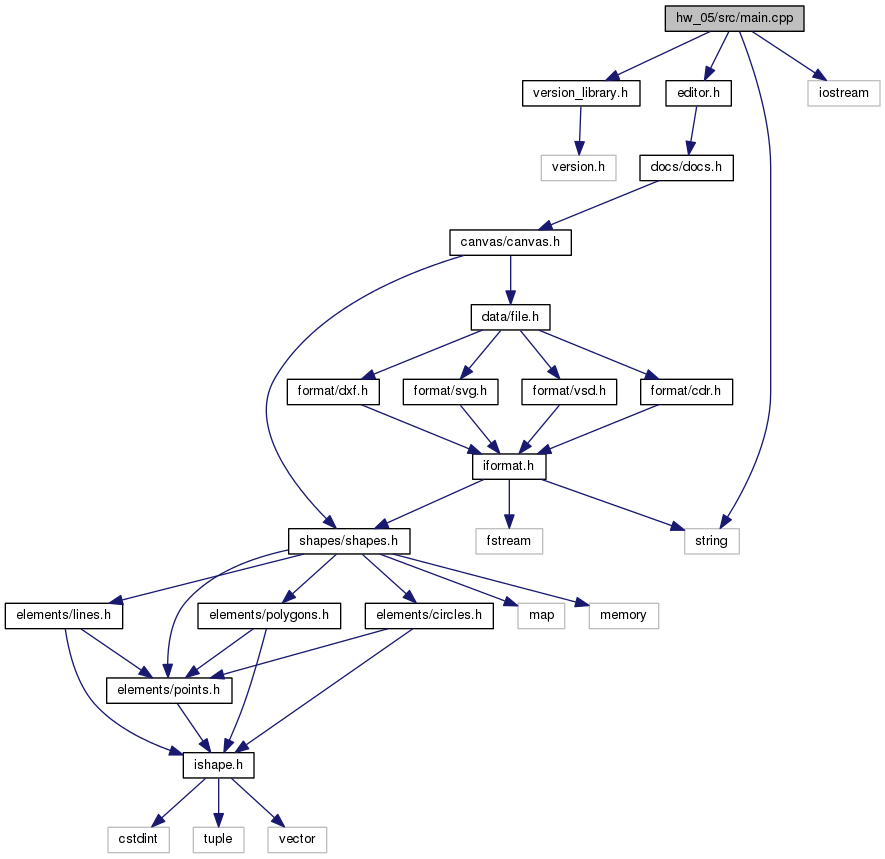
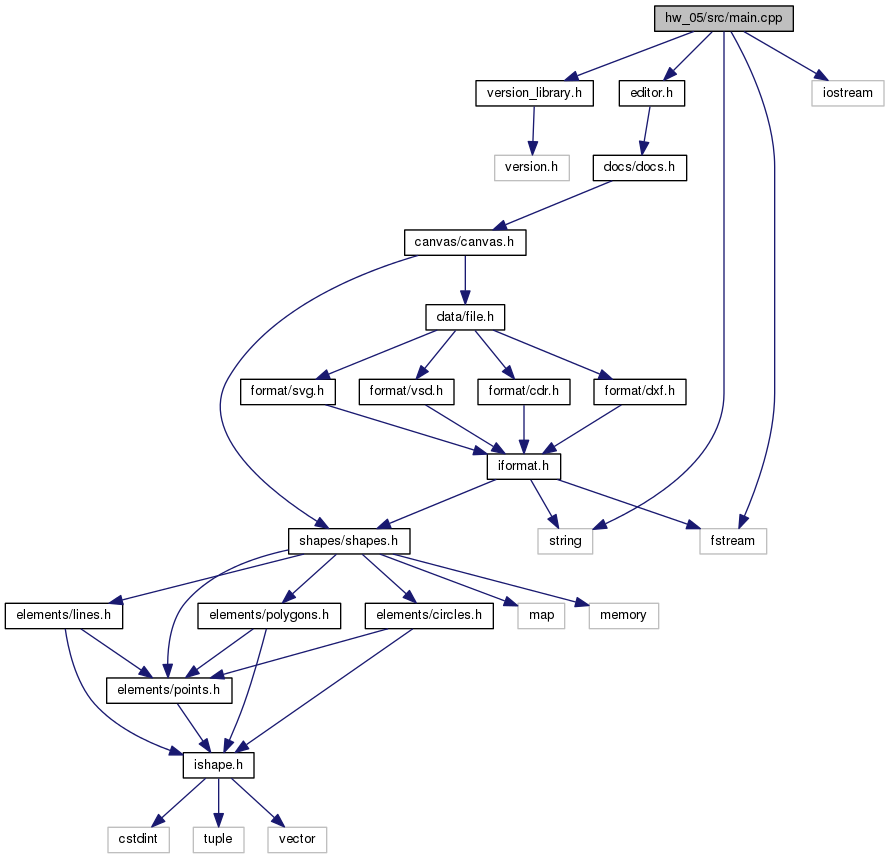
Deploy Ranihilator/projects_for_home_work to github.com/Ranihilator/projects_for_home_work.git:gh-pages

diff --git a/d5/d13/hw__05_2src_2main_8cpp.html b/d5/d13/hw__05_2src_2main_8cpp.html
@@ -75,27 +75,28 @@ $(function() {
 <code>#include &quot;<a class="el" href="../../dd/d60/editor_8h_source.html">editor.h</a>&quot;</code><br />
 <code>#include &lt;iostream&gt;</code><br />
 <code>#include &lt;string&gt;</code><br />
+<code>#include &lt;fstream&gt;</code><br />
 </div><div class="textblock"><div class="dynheader">
 Include dependency graph for main.cpp:</div>
 <div class="dyncontent">
 <div class="center"><img src="../../dd/d6f/hw__05_2src_2main_8cpp__incl.png" border="0" usemap="#hw__05_2src_2main_8cpp" alt=""/></div>
 <map name="hw__05_2src_2main_8cpp" id="hw__05_2src_2main_8cpp">
-<area shape="rect" id="node2" href="../../d4/d70/version__library_8h.html" title="Header of version library. " alt="" coords="523,80,639,107"/>
-<area shape="rect" id="node4" href="../../dd/d60/editor_8h.html" title="editor.h" alt="" coords="666,80,731,107"/>
-<area shape="rect" id="node5" href="../../d7/d3c/docs_8h.html" title="docs/docs.h" alt="" coords="640,155,733,181"/>
-<area shape="rect" id="node6" href="../../d4/dcf/canvas_8h.html" title="canvas/canvas.h" alt="" coords="450,229,571,256"/>
+<area shape="rect" id="node2" href="../../d4/d70/version__library_8h.html" title="Header of version library. " alt="" coords="476,80,592,107"/>
+<area shape="rect" id="node4" href="../../dd/d60/editor_8h.html" title="editor.h" alt="" coords="619,80,684,107"/>
+<area shape="rect" id="node5" href="../../d7/d3c/docs_8h.html" title="docs/docs.h" alt="" coords="593,155,687,181"/>
+<area shape="rect" id="node6" href="../../d4/dcf/canvas_8h.html" title="canvas/canvas.h" alt="" coords="405,229,525,256"/>
 <area shape="rect" id="node7" href="../../d1/d39/shapes_8h.html" title="shapes/shapes.h" alt="" coords="289,528,409,555"/>
-<area shape="rect" id="node18" href="../../d2/d4d/file_8h.html" title="data/file.h" alt="" coords="471,304,549,331"/>
+<area shape="rect" id="node18" href="../../d2/d4d/file_8h.html" title="data/file.h" alt="" coords="426,304,504,331"/>
 <area shape="rect" id="node8" href="../../da/d43/points_8h.html" title="elements/points.h" alt="" coords="107,677,232,704"/>
 <area shape="rect" id="node13" href="../../d2/d39/lines_8h.html" title="elements/lines.h" alt="" coords="5,603,121,629"/>
 <area shape="rect" id="node14" href="../../d0/da3/polygons_8h.html" title="elements/polygons.h" alt="" coords="198,603,340,629"/>
 <area shape="rect" id="node15" href="../../d7/d79/circles_8h.html" title="elements/circles.h" alt="" coords="365,603,493,629"/>
 <area shape="rect" id="node9" href="../../d5/d0d/ishape_8h.html" title="ishape.h" alt="" coords="183,752,253,779"/>
-<area shape="rect" id="node19" href="../../dc/d07/cdr_8h.html" title="format/cdr.h" alt="" coords="641,379,732,405"/>
-<area shape="rect" id="node23" href="../../d0/d56/dxf_8h.html" title="format/dxf.h" alt="" coords="287,379,379,405"/>
-<area shape="rect" id="node24" href="../../de/d97/svg_8h.html" title="format/svg.h" alt="" coords="403,379,497,405"/>
-<area shape="rect" id="node25" href="../../d7/de0/vsd_8h.html" title="format/vsd.h" alt="" coords="522,379,616,405"/>
-<area shape="rect" id="node20" href="../../d1/d3b/iformat_8h.html" title="iformat.h" alt="" coords="473,453,545,480"/>
+<area shape="rect" id="node19" href="../../dc/d07/cdr_8h.html" title="format/cdr.h" alt="" coords="478,379,569,405"/>
+<area shape="rect" id="node23" href="../../d0/d56/dxf_8h.html" title="format/dxf.h" alt="" coords="594,379,685,405"/>
+<area shape="rect" id="node24" href="../../de/d97/svg_8h.html" title="format/svg.h" alt="" coords="241,379,335,405"/>
+<area shape="rect" id="node25" href="../../d7/de0/vsd_8h.html" title="format/vsd.h" alt="" coords="359,379,453,405"/>
+<area shape="rect" id="node20" href="../../d1/d3b/iformat_8h.html" title="iformat.h" alt="" coords="487,453,560,480"/>
 </map>
 </div>
 </div><table class="memberdecls">
